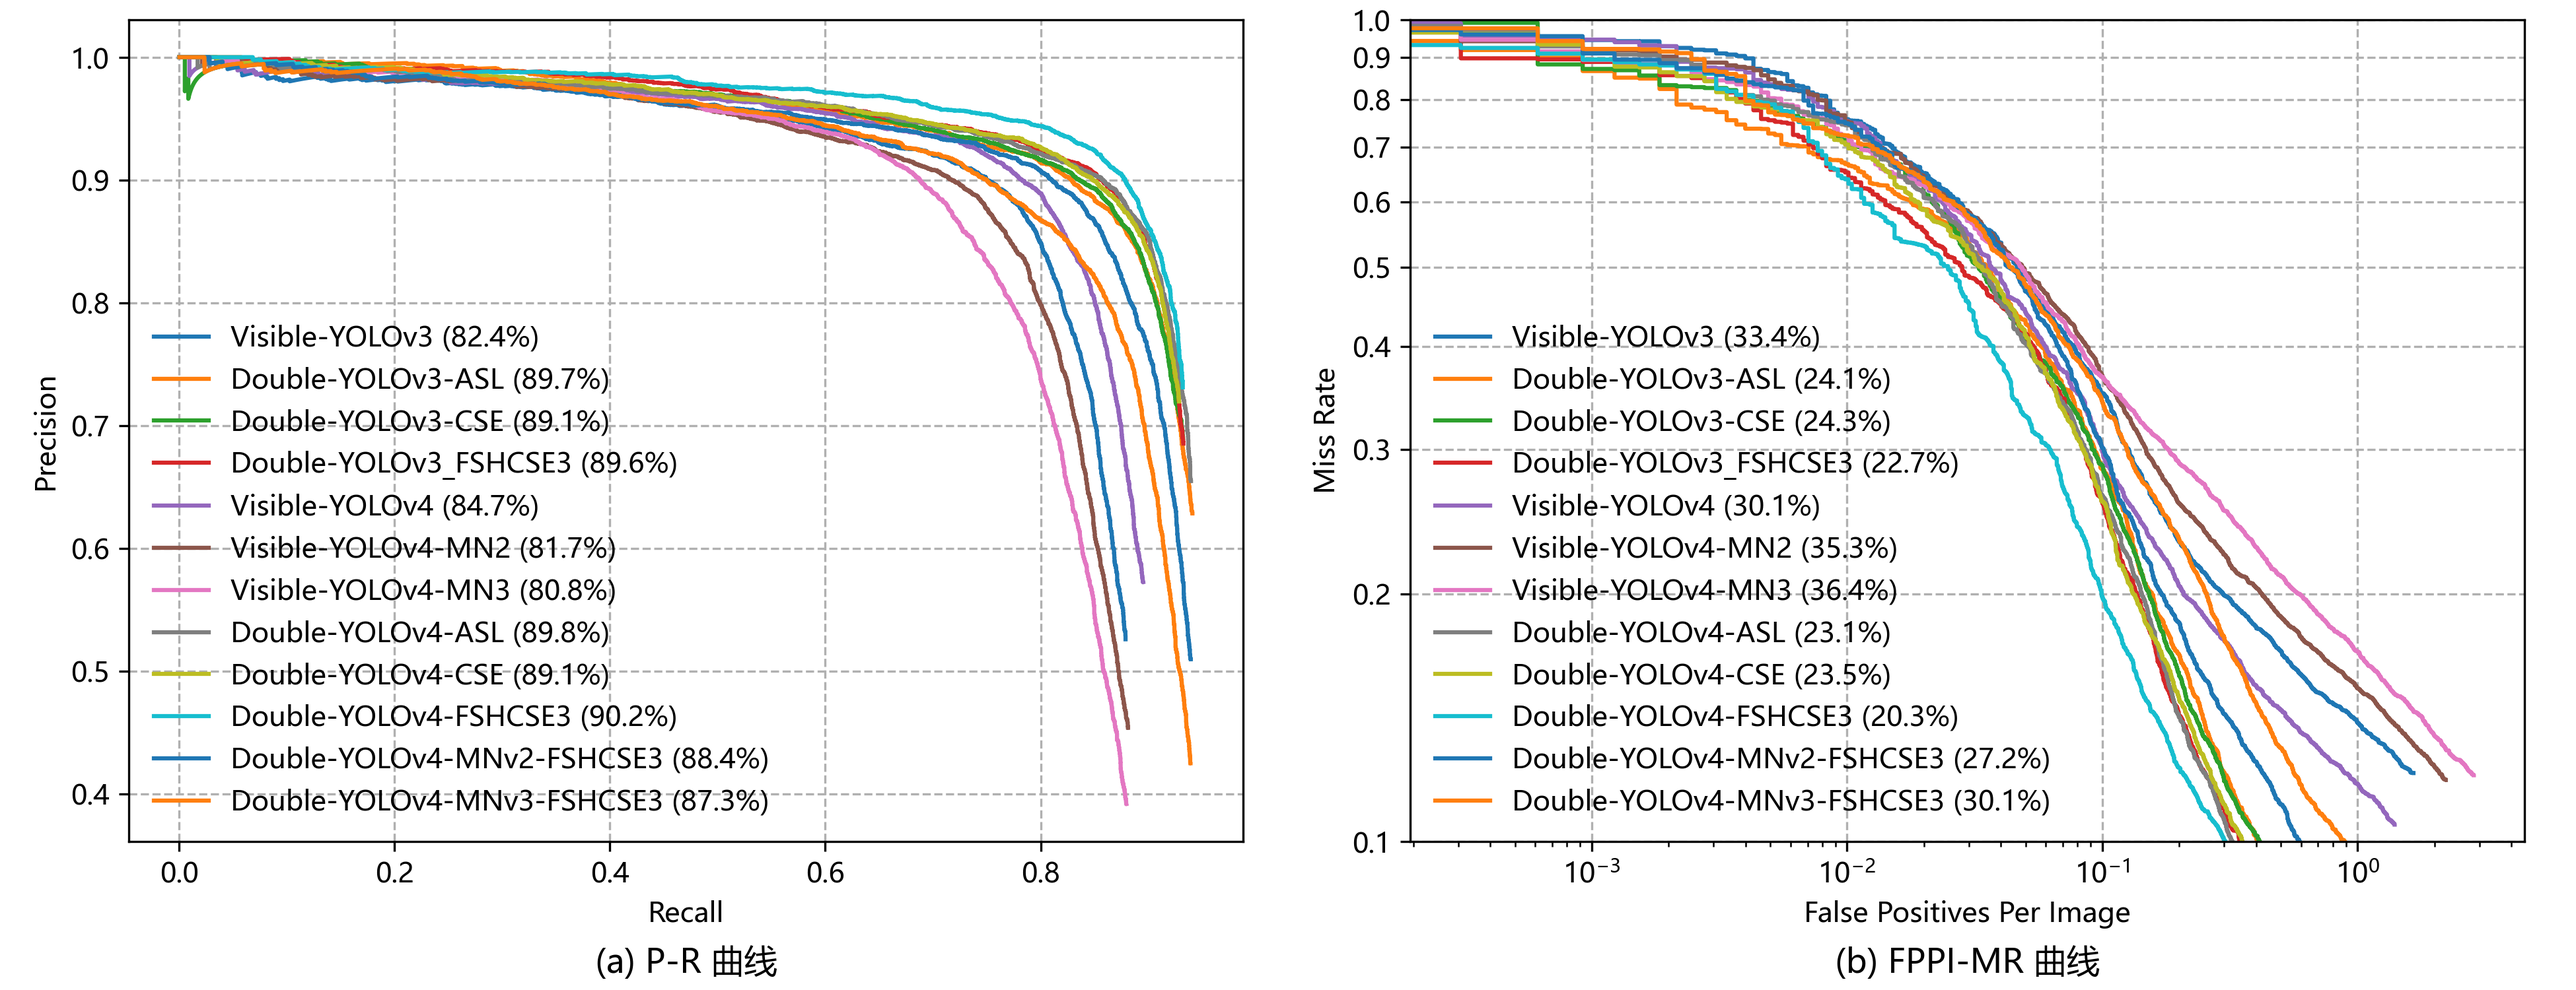
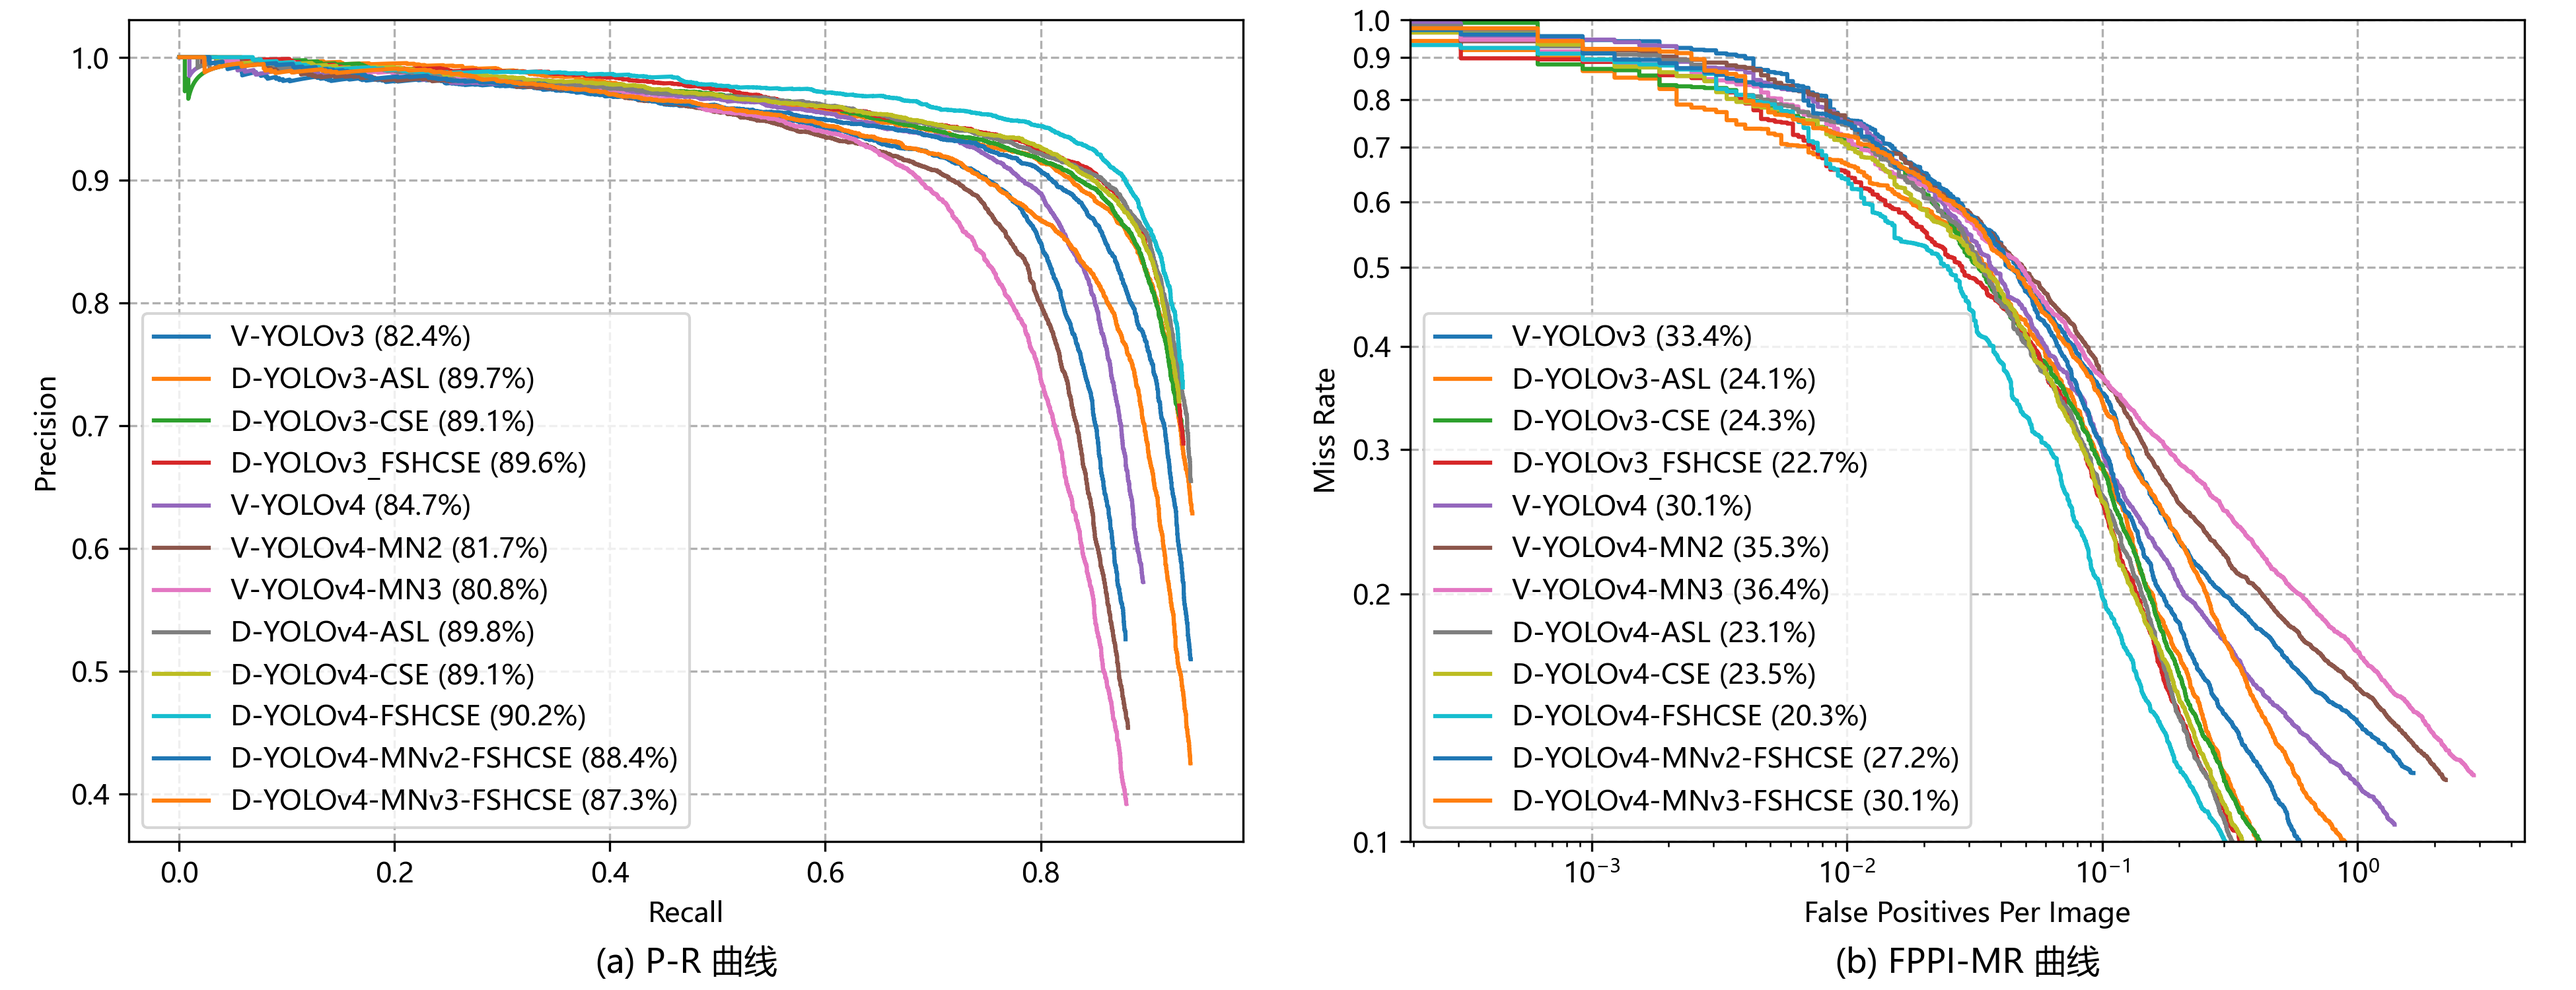
anti-996!

Changed region(s): [[0.0621, 0.3067, 0.3103, 0.828], [0.5895, 0.3067, 0.8067, 0.828]]

diff --git a/draw_pr_fm.py b/draw_pr_fm.py
@@ -45,13 +45,13 @@ def draw_pr_fm(npy_path_list: List, model_name_list: List, save_path=''):
 
     # 设置子图图例、标题、坐标轴标签、网格等各项参数
     plt.subplot(1, 2, 1)
-    plt.legend(pr_model_names, frameon=False, loc='lower left')
+    plt.legend(pr_model_names, frameon=True, loc='lower left')
     plt.title("(a) P-R 曲线", y=-0.18)
     plt.xlabel("Recall")
     plt.ylabel("Precision")
     plt.grid(ls='--')
     plt.subplot(1, 2, 2)
-    plt.legend(fm_model_names, frameon=False, loc='lower left')
+    plt.legend(fm_model_names, frameon=True, loc='lower left')
     plt.title("(b) FPPI-MR 曲线", y=-0.18)
     plt.xlabel("False Positives Per Image")
     plt.ylabel("Miss Rate")
@@ -72,6 +72,86 @@ def draw_pr_fm(npy_path_list: List, model_name_list: List, save_path=''):
         plt.savefig(save_path)
 
 
+def draw_pr(npy_path_list: List, model_name_list: List, save_path=''):
+    '''
+    绘制各个模型得到recall-precision曲线
+    :param npy_path_list: 各个模型测试过程中产生的npy文件路径列表
+    :param model_name_list: 各个模型对应的名字
+    :param save_path: 若非空则指向当前图像的保存路径
+    :return:
+    '''
+
+    assert len(npy_path_list) == len(model_name_list)
+    pr_model_names = model_name_list.copy()
+
+    plt.figure(figsize=(7, 6), dpi=300)
+    plt.subplots_adjust(left=0.1, right=0.95, bottom=0.1, top=0.95, wspace=0.15, hspace=0)
+    for i, (npy_path, _) in enumerate(zip(npy_path_list, model_name_list)):
+        # 从各个模型对应的npy文件中取出recall、precision、fppi和mr数据
+        ld: dict = np.load(npy_path, allow_pickle=True).item()
+        rec = ld['recall']
+        prec = ld['precision']
+        ap = ld['ap']
+
+        pr_model_names[i] += f" ({(ap * 100):.1f}%)"
+        plt.plot(rec, prec)
+
+    plt.legend(pr_model_names, frameon=True, loc='lower left')
+    # plt.title("P-R 曲线", y=-0.18)
+    plt.xlabel("Recall")
+    plt.ylabel("Precision")
+    plt.grid(ls='--')
+    if save_path == "":
+        plt.show()
+    else:
+        plt.savefig(save_path)
+
+
+def draw_fppi_mr(npy_path_list: List, model_name_list: List, save_path=''):
+    '''
+    绘制各个模型得到的fppi-mr曲线
+    :param npy_path_list: 各个模型测试过程中产生的npy文件路径列表
+    :param model_name_list: 各个模型对应的名字
+    :param save_path: 若非空则指向当前图像的保存路径
+    :return:
+    '''
+
+    assert len(npy_path_list) == len(model_name_list)
+    fm_model_names = model_name_list.copy()
+
+    plt.figure(figsize=(7, 6), dpi=300)
+    plt.subplots_adjust(left=0.1, right=0.95, bottom=0.1, top=0.95, wspace=0.15, hspace=0)
+    for i, (npy_path, _) in enumerate(zip(npy_path_list, model_name_list)):
+        # 从各个模型对应的npy文件中取出recall、precision、fppi和mr数据
+        ld: dict = np.load(npy_path, allow_pickle=True).item()
+        fppi = ld['fppi']
+        lamr = ld['lamr']
+        mr = ld['mr']
+
+        fm_model_names[i] += f" ({(lamr * 100):.1f}%)"
+        # 绘制FPPI-MR曲线
+        plt.plot(fppi, mr)
+
+    plt.legend(fm_model_names, frameon=True, loc='lower left')
+    # plt.title("(b) FPPI-MR 曲线", y=-0.18)
+    plt.xlabel("False Positives Per Image")
+    plt.ylabel("Miss Rate")
+    # 将FPPI-MR图绘制成log-log坐标格式的图像
+    plt.xscale('log')
+    plt.yscale('log')
+    ax = plt.gca()
+    # 使FPPI-MR图的坐标轴以0.1为主刻度距离，并限制y轴刻度范围
+    ax.yaxis.set_major_locator(MultipleLocator(0.1))
+    ax.yaxis.set_major_formatter(FormatStrFormatter('%.1f'))
+    plt.ylim(0.1, 1)
+    plt.grid(ls='--')
+
+    if save_path == '':
+        plt.show()
+    else:
+        plt.savefig(save_path)
+
+
 if __name__ == '__main__':
     yolov3_npy_paths = [
         "results/Visible-YOLOv3-Normal102/rec-prec.fppi-mr.npy",
@@ -79,39 +159,43 @@ if __name__ == '__main__':
         "results/Double-YOLOv3-Concat-SE102/rec-prec.fppi-mr.npy",
         # "results/Double-YOLOv3-Fshare-Global-Add-SL102/rec-prec.fppi-mr.npy",
         # "results/Double-YOLOv3-Fshare-Global-Concat-SE102/rec-prec.fppi-mr.npy",
-        "results/Double-YOLOv3-Fshare-Global-Concat-SE3-102/rec-prec.fppi-mr.npy",
+        # "results/Double-YOLOv3-Fshare-Global-Concat-SE3-102/rec-prec.fppi-mr.npy",
     ]
     yolov3_model_names = [
         "Visible-YOLOv3",
         "Double-YOLOv3-ASL",
         "Double-YOLOv3-CSE",
         # "Double-YOLOv3-FSHASL",
-        # "Double-YOLOv3-FSHCSE",
-        "Double-YOLOv3_FSHCSE3"
+        # "Double-YOLOv3-FSHCSE5",
+        # "Double-YOLOv3_FSHCSE"
     ]
-    draw_pr_fm(yolov3_npy_paths, yolov3_model_names, save_path="docs/yolov3.pr-fm-4.png")
+    draw_pr(yolov3_npy_paths, yolov3_model_names, save_path="")
+    draw_fppi_mr(yolov3_npy_paths, yolov3_model_names, save_path="")
 
     yolov4_npy_paths = [
         "results/Visible-YOLOv4-Normal102/rec-prec.fppi-mr.pny.npy",
-        "results/Visible-YOLOv4-MNv2-102/rec-prec.fppi-mr.npy",
-        "results/Visible-YOLOv4-MNv3-102/rec-prec.fppi-mr.npy",
+        # "results/Visible-YOLOv4-MNv2-102/rec-prec.fppi-mr.npy",
+        # "results/Visible-YOLOv4-MNv3-102/rec-prec.fppi-mr.npy",
         "results/Double-YOLOv4-Concat-SE102/rec-prec.fppi-mr.npy",
         "results/Double-YOLOv4-Add-SL102/rec-prec.fppi-mr.npy",
-        "results/Double-YOLOv4-Fshare-Global-Concat-SE3v-102/rec-prec.fppi-mr.npy",
-        "results/Double-YOLOv4-MNv2-Fshare-Global-CSE3-102/rec-prec.fppi-mr.npy",
-        "results/Double-YOLOv4-MNv3-Fshare-Global-CSE3-102/rec-prec.fppi-mr.npy"
+        # "results/Double-YOLOv4-Fshare-Global-Concat-SE3v-102/rec-prec.fppi-mr.npy",
+        # "results/Double-YOLOv4-MNv2-Fshare-Global-CSE3-102/rec-prec.fppi-mr.npy",
+        # "results/Double-YOLOv4-MNv3-Fshare-Global-CSE3-102/rec-prec.fppi-mr.npy"
     ]
     yolov4_model_names = [
         "Visible-YOLOv4",
-        "Visible-YOLOv4-MN2",
-        "Visible-YOLOv4-MN3",
+        # "V-YOLOv4-MN2",
+        # "V-YOLOv4-MN3",
         "Double-YOLOv4-ASL",
         "Double-YOLOv4-CSE",
-        "Double-YOLOv4-FSHCSE3",
-        "Double-YOLOv4-MNv2-FSHCSE3",
-        "Double-YOLOv4-MNv3-FSHCSE3"
+        # "Double-YOLOv4-FSHCSE",
+        # "D-YOLOv4-MNv2-FSHCSE",
+        # "D-YOLOv4-MNv3-FSHCSE"
     ]
-    draw_pr_fm(yolov4_npy_paths, yolov4_model_names, save_path="docs/yolov4.pr-fm-8.png")
+    draw_pr(yolov4_npy_paths, yolov4_model_names, save_path="")
+    draw_fppi_mr(yolov4_npy_paths, yolov4_model_names, save_path="")
 
-    draw_pr_fm(yolov3_npy_paths + yolov4_npy_paths, yolov3_model_names + yolov4_model_names,
-               save_path="docs/yolov3-4.pr-fm-12.png")
+    draw_pr(yolov3_npy_paths + yolov4_npy_paths, yolov3_model_names + yolov4_model_names,
+            save_path="docs/yolov3-4.pr6.png")
+    draw_fppi_mr(yolov3_npy_paths + yolov4_npy_paths, yolov3_model_names + yolov4_model_names,
+                 save_path="docs/yolov3-4.fm6.png")

diff --git a/detect.py b/detect.py
@@ -149,22 +149,22 @@ if __name__ == '__main__':
     parser = argparse.ArgumentParser()
 
     parser.add_argument('--device', type=str, default='cuda:0', help="detecting device")
-    parser.add_argument('--model-name', type=str, default='Visible-YOLOv4-MobileNetv3-FSHCSE3', help='detect model name')
+    parser.add_argument('--model-name', type=str, default='Visible-YOLOv4-Fshare-Concat-SE3', help='detect model name')
     parser.add_argument('--src', type=str, default='imgs/ori/I00200_lwir.jpg', help='detect image path or name')
-    parser.add_argument('--save', type=str, default='results/Double-YOLOv4-MNv3-Fshare-Global-CSE3-102/imgs',
+    parser.add_argument('--save', type=str, default='results/Double-YOLOv4-Fshare-Global-Concat-SE3v-102/imgs',
                         help='result saved dir')
-    parser.add_argument('--cfg', type=str, default='config/kaist_dyolov4_mobilenetv3_fshare_global_cse3.cfg',
+    parser.add_argument('--cfg', type=str, default='config/kaist_dyolov4_fshare_global_concat_se3.cfg',
                         help='model config file path')
     parser.add_argument('--weight', type=str,
-                        default='results/Double-YOLOv4-MNv3-Fshare-Global-CSE3-102/kaist_dyolov4_mobilenetv3_fshare_global_cse3_best.pt',
+                        default='results/Double-YOLOv4-Fshare-Global-Concat-SE3v-102/kaist_dyolov4_fshare_cse3_best.pt',
                         help='initial weights path')
     parser.add_argument('--classes-json', type=str, default='data/kaist_voc_classes.json',
                         help='classes json file path')
     parser.add_argument('--img-size', type=int, default=512, help='detect image size')
     opt = parser.parse_args()
 
-    root = "imgs/ori/"
-    # root = "Kaist_YOLO/test/images/"
+    # root = "imgs/ori/"
+    root = "Kaist_YOLO/test/images/"
     img_path_list = [os.path.join(root, x) for x in os.listdir(root) if x.endswith('_visible.jpg')]
     random.shuffle(img_path_list)
     detect(img_path_list[:40])

diff --git a/build_utils/utils.py b/build_utils/utils.py
@@ -250,10 +250,11 @@ def compute_loss(p, targets, model):  # predictions, targets, model
             # pxy和pwh的计算与YOLOLayer所采用的边界框回归计算式有关。而特别需要注意的是YOLOv3中
             # 所采用的边界框回归计算方式和WongKinYiu-YOLOv4版本中的边界框回归计算方式是不同的！！
             if 'yolov4' in model.cfg:
-                # 计算公式: b_x=2\sigma{(t_x)}-0.5 \\
-                #         b_y=2\sigma{(t_y)}-0.5 \\
-                #         b_w=p_w(2\sigma{(t_w)})^2 \\
-                #         b_h=p_h(2\sigma{(t_h)})^2
+                # YOLOv4的边界框回归参数计算公式:
+                # b_x=2\sigma{(t_x)}-0.5+c_x \\
+                # b_y=2\sigma{(t_y)}-0.5+c_y \\
+                # b_w=p_w(2\sigma{(t_w)})^2 \\
+                # b_h=p_h(2\sigma{(t_h)})^2
                 pxy = ps[:, :2].sigmoid() * 2. - 0.5
                 pwh = (ps[:, 2:4].sigmoid() * 2) ** 2 * anchors[i]
             else:

diff --git a/README.md b/README.md
@@ -1,5 +1,7 @@
 # 一种基于YOLOv3/4的混合模态行人检测算法
 
+[![996.icu](https://img.shields.io/badge/link-996.icu-red.svg)](https://996.icu)[![LICENSE](https://img.shields.io/badge/license-Anti%20996-blue.svg)](https://github.com/996icu/996.ICU/blob/master/LICENSE)
+
 ## 一、项目特性
 
 ![论文工作.drawio](docs/论文工作.drawio.png)
@@ -155,19 +157,22 @@ python evaluate.py --cfg config/kaist_yolov3.cfg --weights weights/kaist_yolov3_
 11. Double-YOLOv4-MNv2-FSHCSE3：https://pan.baidu.com/s/1G1yr-sbEEGCnzGVUEHpUtg 提取码：uovy 
 12. Double-YOLOv4-MNv3-FSHCSE3：https://pan.baidu.com/s/1uU05oKy4ofzF7EgOaZ-UkQ 提取码：zsw1
 
+在Double-YOLOv4-Fshare-Global-CSE3模型的部分推理结果：
+
+![I00304](docs/I00304.jpg)
+![I00972](docs/I00972.jpg)
+![I01039](docs/I01039.jpg)
+![I01566](docs/I01566.jpg)
+![I03307](docs/I03307.jpg)
+![set06_V003_I00195](docs/set06_V003_I00195.jpg)
+
 
 
 ## 五、参考资料
 
-- [WongKinYiu版YOLOv4 Pytorch实现](https://github.com/WongKinYiu/PyTorch_YOLOv4)
-- [U版YOLOv3 Pytorch实现](https://github.com/ultralytics/yolov3)
-- [Kaist数据集所属项目](https://github.com/SoonminHwang/rgbt-ped-detection)
-- [【行人检测】miss rate versus false positives per image (FPPI) 前世今生（理论篇）](https://blog.csdn.net/weixin_38705903/article/details/109654157)
-- [【行人检测】miss rate versus false positives per image (FPPI) 前世今生（实战篇-上）](https://blog.csdn.net/weixin_38705903/article/details/109684244)
-- [【行人检测】miss rate versus false positives per image (FPPI) 前世今生（实战篇-下）](https://blog.csdn.net/weixin_38705903/article/details/109696278)
-- [用matlab 画log Average Miss Rate - FPPI 曲线图，知识点总结](https://www.cnblogs.com/ya-cpp/p/8282383.html)
-- [行人检测 FPPI miss rate怎么画？](https://www.zhihu.com/question/37633344)
-- [MS COCO数据集介绍以及pycocotools简单使用](https://blog.csdn.net/qq_37541097/article/details/113247318?spm=1001.2014.3001.5502)
-- [目标检测mAP计算以及coco评价标准](https://www.bilibili.com/video/BV1ez4y1X7g2?from=search&seid=1352019570332389778&spm_id_from=333.337.0.0)
-- [COCO数据集介绍以及pycocotools简单使用](https://www.bilibili.com/video/BV1TK4y1o78H/?spm_id_from=333.788.recommend_more_video.0)
-- [深度学习小技巧-mAP精度概念详解与计算绘制](https://www.bilibili.com/video/BV1zE411u7Vw?p=2)
+- WongKinYiu版YOLOv4 Pytorch实现：https://github.com/WongKinYiu/PyTorch_YOLOv4
+- Ultralytics版YOLOv3 Pytorch实现：https://github.com/ultralytics/yolov3
+- Kaist数据集所属项目：https://github.com/SoonminHwang/rgbt-ped-detection
+- 多类别平均准确度计算：https://github.com/Cartucho/mAP
+- 《动手学深度学习》：https://zh.d2l.ai/
+
